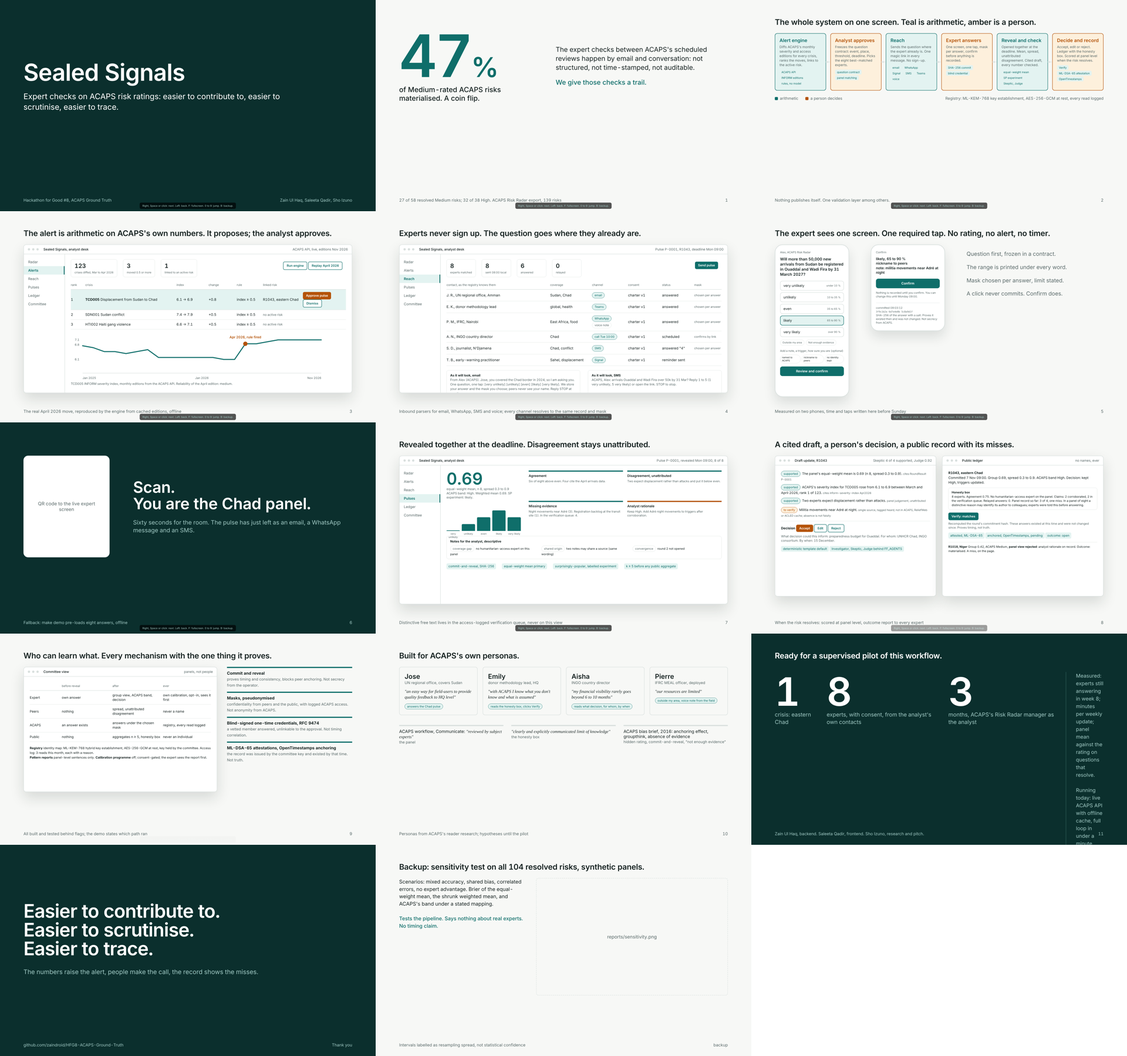
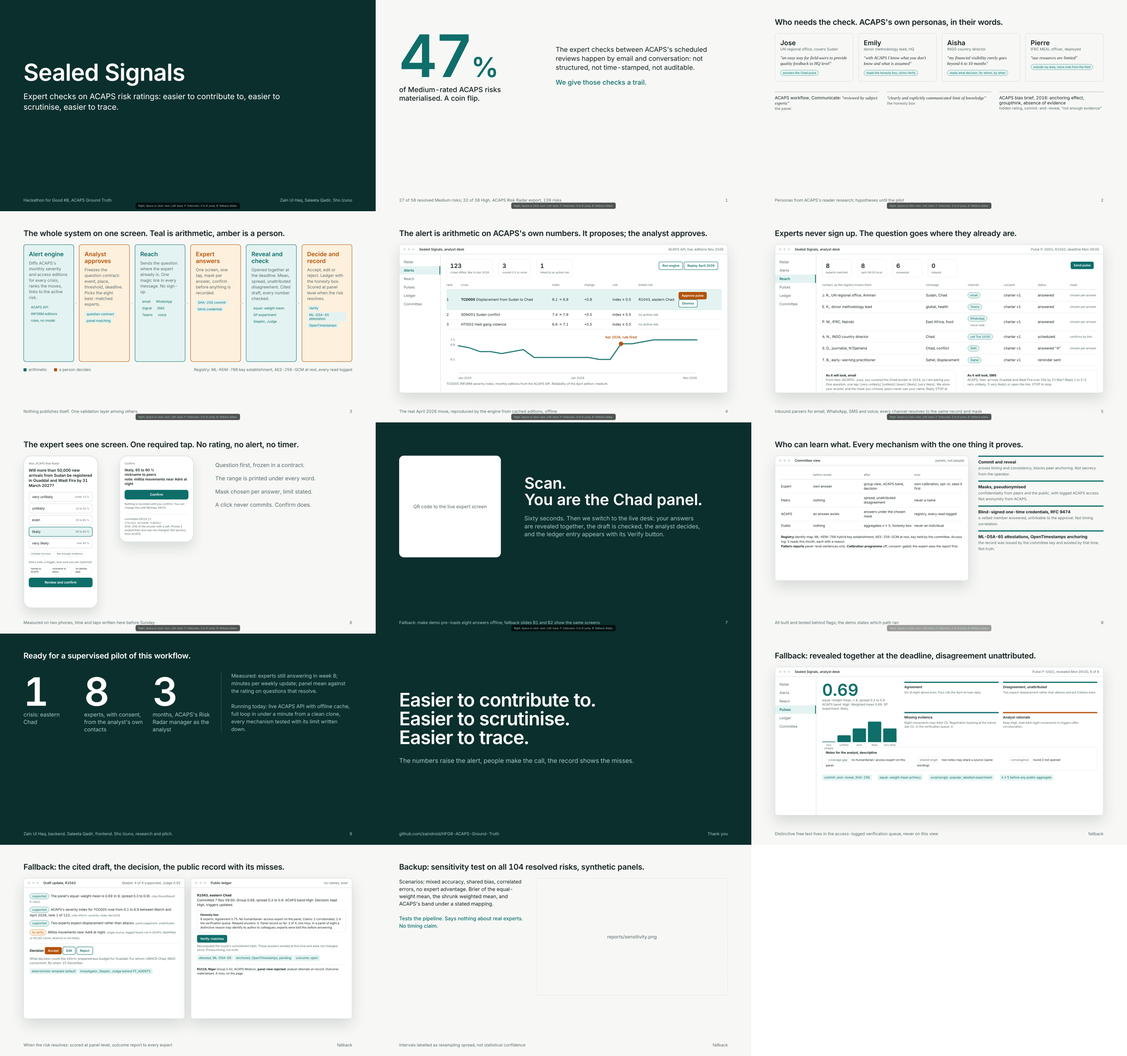
Pitch deck v5: story order (gap, personas, system, alerts, reach, card, live demo, trust, pilot); reveal and ledger screens become fallbacks; section 9a updated

diff --git a/pitch/sealed-signals-slides.html b/pitch/sealed-signals-slides.html
@@ -90,8 +90,6 @@ h1{font-size:120px;font-weight:600;line-height:1;letter-spacing:-2px}
  </div>
  <div class="foot"><span>Hackathon for Good #8, ACAPS Ground Truth</span><span>Zain Ul Haq, Saleeta Qadir, Sho Izuno</span></div>
 </section>
-
-<!-- 1 gap -->
 <section class="slide" id="s1">
  <div style="display:flex;gap:100px;align-items:center;margin-top:60px">
   <div><div class="big" data-s="0">47<span style="font-size:140px;letter-spacing:0">%</span></div><p data-s="0" style="font-size:36px;font-weight:500;margin-top:16px;max-width:700px">of Medium-rated ACAPS risks materialised. A coin flip.</p></div>
@@ -102,9 +100,22 @@ h1{font-size:120px;font-weight:600;line-height:1;letter-spacing:-2px}
  </div>
  <div class="foot"><span>27 of 58 resolved Medium risks; 32 of 38 High. ACAPS Risk Radar export, 139 risks</span><span>1</span></div>
 </section>
-
-<!-- 2 architecture -->
 <section class="slide" id="s2">
+ <div class="line" data-s="0">Who needs the check. ACAPS's own personas, in their words.</div>
+ <div style="display:grid;grid-template-columns:repeat(4,1fr);gap:26px;margin-top:10px">
+  <div data-s="1" style="border:2px solid var(--line);border-radius:12px;padding:40px 36px;min-height:520px"><div style="font-size:46px;font-weight:600">Jose</div><div class="sub" style="font-size:24px;margin-bottom:28px">UN regional office, covers Sudan</div><p style="font-family:var(--serif);font-style:italic;font-size:30px;line-height:1.35;margin-bottom:30px">"an easy way for field-users to provide quality feedback to HQ level"</p><span class="chip t" style="font-size:20px;padding:8px 16px">answers the Chad pulse</span></div>
+  <div data-s="2" style="border:2px solid var(--line);border-radius:12px;padding:40px 36px;min-height:520px"><div style="font-size:46px;font-weight:600">Emily</div><div class="sub" style="font-size:24px;margin-bottom:28px">donor methodology lead, HQ</div><p style="font-family:var(--serif);font-style:italic;font-size:30px;line-height:1.35;margin-bottom:30px">"with ACAPS I know what you don't know and what is assumed"</p><span class="chip t" style="font-size:20px;padding:8px 16px">reads the honesty box, clicks Verify</span></div>
+  <div data-s="3" style="border:2px solid var(--line);border-radius:12px;padding:40px 36px;min-height:520px"><div style="font-size:46px;font-weight:600">Aisha</div><div class="sub" style="font-size:24px;margin-bottom:28px">INGO country director</div><p style="font-family:var(--serif);font-style:italic;font-size:30px;line-height:1.35;margin-bottom:30px">"my financial visibility rarely goes beyond 6 to 10 months"</p><span class="chip t" style="font-size:20px;padding:8px 16px">reads what decision, for whom, by when</span></div>
+  <div data-s="4" style="border:2px solid var(--line);border-radius:12px;padding:40px 36px;min-height:520px"><div style="font-size:46px;font-weight:600">Pierre</div><div class="sub" style="font-size:24px;margin-bottom:28px">IFRC MEAL officer, deployed</div><p style="font-family:var(--serif);font-style:italic;font-size:30px;line-height:1.35;margin-bottom:30px">"our resources are limited"</p><span class="chip t" style="font-size:20px;padding:8px 16px">outside my area, voice note from the field</span></div>
+ </div>
+ <div style="margin-top:50px;display:flex;gap:40px" data-s="4">
+  <div style="flex:1;border-top:6px solid var(--line);padding-top:14px;font-size:22px">ACAPS workflow, Communicate: <span style="font-family:var(--serif);font-style:italic">"reviewed by subject experts"</span><br><span class="sub" style="font-size:19px">the panel</span></div>
+  <div style="flex:1;border-top:6px solid var(--line);padding-top:14px;font-size:22px"><span style="font-family:var(--serif);font-style:italic">"clearly and explicitly communicated limit of knowledge"</span><br><span class="sub" style="font-size:19px">the honesty box</span></div>
+  <div style="flex:1;border-top:6px solid var(--line);padding-top:14px;font-size:22px">ACAPS bias brief, 2016: anchoring effect, groupthink, absence of evidence<br><span class="sub" style="font-size:19px">hidden rating, commit-and-reveal, "not enough evidence"</span></div>
+ </div>
+ <div class="foot"><span>Personas from ACAPS's reader research; hypotheses until the pilot</span><span>2</span></div>
+</section>
+<section class="slide" id="s3">
  <div class="line" data-s="0">The whole system on one screen. Teal is arithmetic, amber is a person.</div>
  <div class="arch">
   <div class="node t" data-s="1"><h3>Alert engine</h3><p>Diffs ACAPS's monthly severity and access editions for every crisis, ranks the moves, links to the active risk.</p><span class="tech">ACAPS API</span> <span class="tech">INFORM editions</span> <span class="tech">rules, no model</span><i class="arrow"></i></div>
@@ -115,11 +126,9 @@ h1{font-size:120px;font-weight:600;line-height:1;letter-spacing:-2px}
   <div class="node a" data-s="6"><h3>Decide and record</h3><p>Accept, edit or reject. Ledger with the honesty box. Scored at panel level when the risk resolves.</p><span class="tech">Verify</span> <span class="tech">ML-DSA-65 attestation</span> <span class="tech">OpenTimestamps</span></div>
  </div>
  <div class="legend" data-s="6"><span class="lt">arithmetic</span><span class="la">a person decides</span><span style="margin-left:auto">Registry: ML-KEM-768 key establishment, AES-256-GCM at rest, every read logged</span></div>
- <div class="foot"><span>Nothing publishes itself. One validation layer among others.</span><span>2</span></div>
+ <div class="foot"><span>Nothing publishes itself. One validation layer among others.</span><span>3</span></div>
 </section>
-
-<!-- 3 alerts screen -->
-<section class="slide" id="s3">
+<section class="slide" id="s4">
  <div class="line" data-s="0">The alert is arithmetic on ACAPS's own numbers. It proposes; the analyst approves.</div>
  <div class="win" data-s="1" style="height:760px">
   <div class="bar"><i></i><i></i><i></i><b>Sealed Signals, analyst desk</b><span style="margin-left:auto">ACAPS API, live, editions Nov 2026</span></div>
@@ -142,11 +151,9 @@ h1{font-size:120px;font-weight:600;line-height:1;letter-spacing:-2px}
    </div>
   </div>
  </div>
- <div class="foot"><span>The real April 2026 move, reproduced by the engine from cached editions, offline</span><span>3</span></div>
+ <div class="foot"><span>The real April 2026 move, reproduced by the engine from cached editions, offline</span><span>4</span></div>
 </section>
-
-<!-- 4 reach screen -->
-<section class="slide" id="s4">
+<section class="slide" id="s5">
  <div class="line" data-s="0">Experts never sign up. The question goes where they already are.</div>
  <div class="win" data-s="1" style="height:760px">
   <div class="bar"><i></i><i></i><i></i><b>Sealed Signals, analyst desk</b><span style="margin-left:auto">Pulse P-0001, R1043, deadline Mon 09:00</span></div>
@@ -168,11 +175,9 @@ h1{font-size:120px;font-weight:600;line-height:1;letter-spacing:-2px}
    </div>
   </div>
  </div>
- <div class="foot"><span>Inbound parsers for email, WhatsApp, SMS and voice; every channel resolves to the same record and mask</span><span>4</span></div>
+ <div class="foot"><span>Inbound parsers for email, WhatsApp, SMS and voice; every channel resolves to the same record and mask</span><span>5</span></div>
 </section>
-
-<!-- 5 card -->
-<section class="slide" id="s5">
+<section class="slide" id="s6">
  <div class="line" data-s="0">The expert sees one screen. One required tap. No rating, no alert, no timer.</div>
  <div style="display:flex;gap:110px;align-items:flex-start">
   <div class="phone" data-s="1">
@@ -202,22 +207,55 @@ h1{font-size:120px;font-weight:600;line-height:1;letter-spacing:-2px}
    <p class="sub" data-s="3" style="font-size:28px">A click never commits. Confirm does.</p>
   </div>
  </div>
- <div class="foot"><span>Measured on two phones, time and taps written here before Sunday</span><span>5</span></div>
+ <div class="foot"><span>Measured on two phones, time and taps written here before Sunday</span><span>6</span></div>
 </section>
-
-<!-- 6 demo -->
-<section class="slide dark" id="s6">
+<section class="slide dark" id="s7">
  <div style="display:flex;align-items:center;gap:120px;margin-top:80px">
   <div data-s="0" style="width:520px;height:520px;background:#fff;border-radius:24px;display:flex;align-items:center;justify-content:center;text-align:center;padding:50px;color:var(--muted);font-size:24px">QR code to the live expert screen</div>
-  <div><div class="line" data-s="0" style="font-size:80px;color:#fff;line-height:1.05">Scan.<br>You are the Chad panel.</div><p class="sub" data-s="1" style="font-size:30px">Sixty seconds for the room. The pulse has just left as an email, a WhatsApp message and an SMS.</p></div>
+  <div><div class="line" data-s="0" style="font-size:80px;color:#fff;line-height:1.05">Scan.<br>You are the Chad panel.</div><p class="sub" data-s="1" style="font-size:30px;max-width:900px">Sixty seconds. Then we switch to the live desk: your answers are revealed together, the draft is checked, the analyst decides, and the ledger entry appears with its Verify button.</p></div>
  </div>
- <div class="foot"><span>Fallback: make demo pre-loads eight answers, offline</span><span>6</span></div>
+ <div class="foot"><span>Fallback: make demo pre-loads eight answers offline; fallback slides B1 and B2 show the same screens</span><span>7</span></div>
 </section>
-<section class="slide dark" id="s6v" style="padding:0"><video id="demovid" src="sealed-signals-demo.mp4" muted playsinline preload="auto" style="position:absolute;left:0;top:0;width:1920px;height:1080px;background:#fff"></video></section>
-
-<!-- 7 reveal screen -->
-<section class="slide" id="s7">
- <div class="line" data-s="0">Revealed together at the deadline. Disagreement stays unattributed.</div>
+<section class="slide dark" id="s7v" style="padding:0"><video id="demovid" src="sealed-signals-demo.mp4" muted playsinline preload="auto" style="position:absolute;left:0;top:0;width:1920px;height:1080px;background:#fff"></video></section>
+<section class="slide" id="s8">
+ <div class="line" data-s="0">Who can learn what. Every mechanism with the one thing it proves.</div>
+ <div style="display:flex;gap:50px">
+  <div class="win" data-s="1" style="flex:1;height:640px">
+   <div class="bar"><i></i><i></i><i></i><b>Committee view</b><span style="margin-left:auto">panels, not people</span></div>
+   <div class="main" style="font-size:17px">
+    <div class="tr h" style="grid-template-columns:150px 1fr 1fr 1fr"><span></span><span>before reveal</span><span>after</span><span>ever</span></div>
+    <div class="tr" style="grid-template-columns:150px 1fr 1fr 1fr"><span>Expert</span><span>own answer</span><span>group view, ACAPS band, decision</span><span>own calibration, opt-in, sees it first</span></div>
+    <div class="tr" style="grid-template-columns:150px 1fr 1fr 1fr"><span>Peers</span><span>nothing</span><span>spread, unattributed disagreement</span><span>never a name</span></div>
+    <div class="tr" style="grid-template-columns:150px 1fr 1fr 1fr"><span>ACAPS</span><span>an answer exists</span><span>answers under the chosen mask</span><span>registry, every read logged</span></div>
+    <div class="tr" style="grid-template-columns:150px 1fr 1fr 1fr"><span>Public</span><span>nothing</span><span>aggregates n ≥ 5, honesty box</span><span>never an individual</span></div>
+    <div style="margin-top:20px;font-size:16px;line-height:1.5"><b>Registry</b> identity map: ML-KEM-768 hybrid key establishment, AES-256-GCM at rest, key held by the committee. Access log: 3 reads this month, each with a reason.<br><b>Pattern reports</b> panel-level sentences only. <b>Calibration programme</b> off; consent-gated; the expert sees the report first.</div>
+   </div>
+  </div>
+  <div style="width:640px;font-size:21px;line-height:1.45" data-s="2">
+   <div style="border-top:6px solid var(--teal);padding:12px 0 18px"><b>Commit and reveal</b><br><span class="sub" style="font-size:19px">proves timing and consistency, blocks peer anchoring. Not secrecy from the operator.</span></div>
+   <div style="border-top:6px solid var(--teal);padding:12px 0 18px"><b>Masks, pseudonymised</b><br><span class="sub" style="font-size:19px">confidentiality from peers and the public, with logged ACAPS access. Not anonymity from ACAPS.</span></div>
+   <div style="border-top:6px solid var(--teal);padding:12px 0 18px"><b>Blind-signed one-time credentials, RFC 9474</b><br><span class="sub" style="font-size:19px">a vetted member answered, unlinkable to the approval. Not timing correlation.</span></div>
+   <div style="border-top:6px solid var(--teal);padding:12px 0 18px"><b>ML-DSA-65 attestations, OpenTimestamps anchoring</b><br><span class="sub" style="font-size:19px">the record was issued by the committee key and existed by that time. Not truth.</span></div>
+  </div>
+ </div>
+ <div class="foot"><span>All built and tested behind flags; the demo states which path ran</span><span>8</span></div>
+</section>
+<section class="slide dark" id="s9">
+ <div class="line" data-s="0" style="color:#fff">Ready for a supervised pilot of this workflow.</div>
+ <div style="display:flex;gap:50px;margin-top:60px">
+  <div data-s="1" style="width:260px"><div style="font-size:200px;font-weight:600;line-height:1;letter-spacing:-6px">1</div><p class="sub" style="font-size:28px">crisis: eastern Chad</p></div>
+  <div data-s="2" style="width:300px"><div style="font-size:200px;font-weight:600;line-height:1;letter-spacing:-6px">8</div><p class="sub" style="font-size:28px">experts, with consent, from the analyst's own contacts</p></div>
+  <div data-s="3" style="width:300px"><div style="font-size:200px;font-weight:600;line-height:1;letter-spacing:-6px">3</div><p class="sub" style="font-size:28px">months, ACAPS's Risk Radar manager as the analyst</p></div>
+  <div data-s="4" style="flex:1;min-width:600px;border-left:2px solid #2d5c58;padding-left:50px;font-size:26px;line-height:1.5;color:#9fc8c3">Measured: experts still answering in week 8; minutes per weekly update; panel mean against the rating on questions that resolve.<br><br>Running today: live ACAPS API with offline cache, full loop in under a minute from a clean clone, every mechanism tested with its limit written down.</div>
+ </div>
+ <div class="foot"><span>Zain Ul Haq, backend. Saleeta Qadir, frontend. Sho Izuno, research and pitch.</span><span>9</span></div>
+</section>
+<section class="slide dark" id="s12">
+ <div style="margin-top:200px"><h1 data-s="0" style="font-size:96px">Easier to contribute to.<br>Easier to scrutinise.<br>Easier to trace.</h1><p class="sub" data-s="1" style="font-size:32px;margin-top:50px">The numbers raise the alert, people make the call, the record shows the misses.</p></div>
+ <div class="foot"><span>github.com/zaindroid/HFG8-ACAPS-Ground-Truth</span><span>Thank you</span></div>
+</section>
+<section class="slide" id="b1">
+ <div class="line" data-s="0">Fallback: revealed together at the deadline, disagreement unattributed.</div>
  <div class="win" data-s="1" style="height:760px">
   <div class="bar"><i></i><i></i><i></i><b>Sealed Signals, analyst desk</b><span style="margin-left:auto">Pulse P-0001, revealed Mon 09:00, 8 of 8</span></div>
   <div class="body">
@@ -239,12 +277,10 @@ h1{font-size:120px;font-weight:600;line-height:1;letter-spacing:-2px}
    </div>
   </div>
  </div>
- <div class="foot"><span>Distinctive free text lives in the access-logged verification queue, never on this view</span><span>7</span></div>
+ <div class="foot"><span>Distinctive free text lives in the access-logged verification queue, never on this view</span><span>fallback</span></div>
 </section>
-
-<!-- 8 draft + ledger -->
-<section class="slide" id="s8">
- <div class="line" data-s="0">A cited draft, a person's decision, a public record with its misses.</div>
+<section class="slide" id="b2">
+ <div class="line" data-s="0">Fallback: the cited draft, the decision, the public record with its misses.</div>
  <div style="display:flex;gap:30px">
   <div class="win" data-s="1" style="height:720px;flex:1">
    <div class="bar"><i></i><i></i><i></i><b>Draft update, R1043</b><span style="margin-left:auto">Skeptic 4 of 4 supported, Judge 0.92</span></div>
@@ -272,81 +308,18 @@ h1{font-size:120px;font-weight:600;line-height:1;letter-spacing:-2px}
    </div>
   </div>
  </div>
- <div class="foot"><span>When the risk resolves: scored at panel level, outcome report to every expert</span><span>8</span></div>
+ <div class="foot"><span>When the risk resolves: scored at panel level, outcome report to every expert</span><span>fallback</span></div>
 </section>
-
-<!-- 9 trust -->
-<section class="slide" id="s9">
- <div class="line" data-s="0">Who can learn what. Every mechanism with the one thing it proves.</div>
- <div style="display:flex;gap:50px">
-  <div class="win" data-s="1" style="flex:1;height:640px">
-   <div class="bar"><i></i><i></i><i></i><b>Committee view</b><span style="margin-left:auto">panels, not people</span></div>
-   <div class="main" style="font-size:17px">
-    <div class="tr h" style="grid-template-columns:150px 1fr 1fr 1fr"><span></span><span>before reveal</span><span>after</span><span>ever</span></div>
-    <div class="tr" style="grid-template-columns:150px 1fr 1fr 1fr"><span>Expert</span><span>own answer</span><span>group view, ACAPS band, decision</span><span>own calibration, opt-in, sees it first</span></div>
-    <div class="tr" style="grid-template-columns:150px 1fr 1fr 1fr"><span>Peers</span><span>nothing</span><span>spread, unattributed disagreement</span><span>never a name</span></div>
-    <div class="tr" style="grid-template-columns:150px 1fr 1fr 1fr"><span>ACAPS</span><span>an answer exists</span><span>answers under the chosen mask</span><span>registry, every read logged</span></div>
-    <div class="tr" style="grid-template-columns:150px 1fr 1fr 1fr"><span>Public</span><span>nothing</span><span>aggregates n ≥ 5, honesty box</span><span>never an individual</span></div>
-    <div style="margin-top:20px;font-size:16px;line-height:1.5"><b>Registry</b> identity map: ML-KEM-768 hybrid key establishment, AES-256-GCM at rest, key held by the committee. Access log: 3 reads this month, each with a reason.<br><b>Pattern reports</b> panel-level sentences only. <b>Calibration programme</b> off; consent-gated; the expert sees the report first.</div>
-   </div>
-  </div>
-  <div style="width:640px;font-size:21px;line-height:1.45" data-s="2">
-   <div style="border-top:6px solid var(--teal);padding:12px 0 18px"><b>Commit and reveal</b><br><span class="sub" style="font-size:19px">proves timing and consistency, blocks peer anchoring. Not secrecy from the operator.</span></div>
-   <div style="border-top:6px solid var(--teal);padding:12px 0 18px"><b>Masks, pseudonymised</b><br><span class="sub" style="font-size:19px">confidentiality from peers and the public, with logged ACAPS access. Not anonymity from ACAPS.</span></div>
-   <div style="border-top:6px solid var(--teal);padding:12px 0 18px"><b>Blind-signed one-time credentials, RFC 9474</b><br><span class="sub" style="font-size:19px">a vetted member answered, unlinkable to the approval. Not timing correlation.</span></div>
-   <div style="border-top:6px solid var(--teal);padding:12px 0 18px"><b>ML-DSA-65 attestations, OpenTimestamps anchoring</b><br><span class="sub" style="font-size:19px">the record was issued by the committee key and existed by that time. Not truth.</span></div>
-  </div>
- </div>
- <div class="foot"><span>All built and tested behind flags; the demo states which path ran</span><span>9</span></div>
-</section>
-
-<!-- 10 personas -->
-<section class="slide" id="s10">
- <div class="line" data-s="0">Built for ACAPS's own personas.</div>
- <div style="display:grid;grid-template-columns:repeat(4,1fr);gap:26px;margin-top:10px">
-  <div data-s="1" style="border:2px solid var(--line);border-radius:12px;padding:26px"><div style="font-size:34px;font-weight:600">Jose</div><div class="sub" style="font-size:19px;margin-bottom:16px">UN regional office, covers Sudan</div><p style="font-family:var(--serif);font-style:italic;font-size:22px;line-height:1.35;margin-bottom:16px">"an easy way for field-users to provide quality feedback to HQ level"</p><span class="chip t">answers the Chad pulse</span></div>
-  <div data-s="2" style="border:2px solid var(--line);border-radius:12px;padding:26px"><div style="font-size:34px;font-weight:600">Emily</div><div class="sub" style="font-size:19px;margin-bottom:16px">donor methodology lead, HQ</div><p style="font-family:var(--serif);font-style:italic;font-size:22px;line-height:1.35;margin-bottom:16px">"with ACAPS I know what you don't know and what is assumed"</p><span class="chip t">reads the honesty box, clicks Verify</span></div>
-  <div data-s="3" style="border:2px solid var(--line);border-radius:12px;padding:26px"><div style="font-size:34px;font-weight:600">Aisha</div><div class="sub" style="font-size:19px;margin-bottom:16px">INGO country director</div><p style="font-family:var(--serif);font-style:italic;font-size:22px;line-height:1.35;margin-bottom:16px">"my financial visibility rarely goes beyond 6 to 10 months"</p><span class="chip t">reads what decision, for whom, by when</span></div>
-  <div data-s="4" style="border:2px solid var(--line);border-radius:12px;padding:26px"><div style="font-size:34px;font-weight:600">Pierre</div><div class="sub" style="font-size:19px;margin-bottom:16px">IFRC MEAL officer, deployed</div><p style="font-family:var(--serif);font-style:italic;font-size:22px;line-height:1.35;margin-bottom:16px">"our resources are limited"</p><span class="chip t">outside my area, voice note from the field</span></div>
- </div>
- <div style="margin-top:50px;display:flex;gap:40px" data-s="4">
-  <div style="flex:1;border-top:6px solid var(--line);padding-top:14px;font-size:22px">ACAPS workflow, Communicate: <span style="font-family:var(--serif);font-style:italic">"reviewed by subject experts"</span><br><span class="sub" style="font-size:19px">the panel</span></div>
-  <div style="flex:1;border-top:6px solid var(--line);padding-top:14px;font-size:22px"><span style="font-family:var(--serif);font-style:italic">"clearly and explicitly communicated limit of knowledge"</span><br><span class="sub" style="font-size:19px">the honesty box</span></div>
-  <div style="flex:1;border-top:6px solid var(--line);padding-top:14px;font-size:22px">ACAPS bias brief, 2016: anchoring effect, groupthink, absence of evidence<br><span class="sub" style="font-size:19px">hidden rating, commit-and-reveal, "not enough evidence"</span></div>
- </div>
- <div class="foot"><span>Personas from ACAPS's reader research; hypotheses until the pilot</span><span>10</span></div>
-</section>
-
-<!-- 11 pilot -->
-<section class="slide dark" id="s11">
- <div class="line" data-s="0" style="color:#fff">Ready for a supervised pilot of this workflow.</div>
- <div style="display:flex;gap:50px;margin-top:60px">
-  <div data-s="1" style="width:260px"><div style="font-size:200px;font-weight:600;line-height:1;letter-spacing:-6px">1</div><p class="sub" style="font-size:28px">crisis: eastern Chad</p></div>
-  <div data-s="2" style="width:300px"><div style="font-size:200px;font-weight:600;line-height:1;letter-spacing:-6px">8</div><p class="sub" style="font-size:28px">experts, with consent, from the analyst's own contacts</p></div>
-  <div data-s="3" style="width:300px"><div style="font-size:200px;font-weight:600;line-height:1;letter-spacing:-6px">3</div><p class="sub" style="font-size:28px">months, ACAPS's Risk Radar manager as the analyst</p></div>
-  <div data-s="4" style="flex:1;min-width:600px;border-left:2px solid #2d5c58;padding-left:50px;font-size:26px;line-height:1.5;color:#9fc8c3">Measured: experts still answering in week 8; minutes per weekly update; panel mean against the rating on questions that resolve.<br><br>Running today: live ACAPS API with offline cache, full loop in under a minute from a clean clone, every mechanism tested with its limit written down.</div>
- </div>
- <div class="foot"><span>Zain Ul Haq, backend. Saleeta Qadir, frontend. Sho Izuno, research and pitch.</span><span>11</span></div>
-</section>
-
-<!-- 12 close -->
-<section class="slide dark" id="s12">
- <div style="margin-top:200px"><h1 data-s="0" style="font-size:96px">Easier to contribute to.<br>Easier to scrutinise.<br>Easier to trace.</h1><p class="sub" data-s="1" style="font-size:32px;margin-top:50px">The numbers raise the alert, people make the call, the record shows the misses.</p></div>
- <div class="foot"><span>github.com/zaindroid/HFG8-ACAPS-Ground-Truth</span><span>Thank you</span></div>
-</section>
-
-<!-- backup -->
-<section class="slide" id="b1">
+<section class="slide" id="b3">
  <div class="line" data-s="0">Backup: sensitivity test on all 104 resolved risks, synthetic panels.</div>
  <div style="display:flex;gap:60px;align-items:flex-start">
   <div style="width:640px;font-size:26px;line-height:1.45" data-s="1">Scenarios: mixed accuracy, shared bias, correlated errors, no expert advantage. Brier of the equal-weight mean, the shrunk weighted mean, and ACAPS's band under a stated mapping.<br><br><span style="color:var(--teal);font-weight:500">Tests the pipeline. Says nothing about real experts. No timing claim.</span></div>
   <div data-s="1" style="flex:1;height:600px;border:2px dashed var(--line);border-radius:12px;display:flex;align-items:center;justify-content:center;color:var(--muted);font-size:24px">reports/sensitivity.png</div>
  </div>
- <div class="foot"><span>Intervals labelled as resampling spread, not statistical confidence</span><span>backup</span></div>
+ <div class="foot"><span>Intervals labelled as resampling spread, not statistical confidence</span><span>fallback</span></div>
 </section>
-
 </div>
-<div class="hud" id="hud">Right, Space or click: next. Left: back. F: fullscreen. 0 to 9: jump. B: backup.</div>
+<div class="hud" id="hud">Right, Space or click: next. Left: back. F: fullscreen. 0 to 9: jump. B: fallback slides.</div>
 <script>
 (function(){
  var stage=document.getElementById('stage'),S=[].slice.call(document.querySelectorAll('.slide'));
@@ -364,7 +337,7 @@ h1{font-size:120px;font-weight:600;line-height:1;letter-spacing:-2px}
   else if(e.key==='ArrowLeft'||e.key==='PageUp'){prev()}
   else if(e.key==='f'||e.key==='F'){document.fullscreenElement?document.exitFullscreen():document.documentElement.requestFullscreen()}
   else if(/^[0-9]$/.test(e.key)){var el=document.getElementById('s'+e.key);if(el)go(S.indexOf(el),0)}
-  else if(e.key==='b'||e.key==='B'){go(S.indexOf(document.getElementById('b1')),0)}});
+  else if(e.key==='b'||e.key==='B'){go(S.indexOf(document.getElementById('b1')),0)}else if(e.key==='Escape'){go(S.indexOf(document.getElementById('s7')),0)}});
  addEventListener('click',next);
  setTimeout(function(){document.getElementById('hud').style.opacity=0},6000);
  go(0,0);

diff --git a/docs/sealed-signals/MASTER_PROMPT.md b/docs/sealed-signals/MASTER_PROMPT.md
@@ -707,17 +707,16 @@ Professional, minimal, modern. The jury should think "this already exists in pro
 - README: paragraph from section 0, architecture diagram, run instructions, what is synthetic vs live, limits, team.
 - Pitch rehearsed twice with the QR step (jury becomes the panel); fallback `make demo` pre-loads 8 synthetic answers.
 
-## 9a. The three minutes (Lane C owns demo-script.md; these beats are fixed)
+## 9a. The three minutes (Lane C owns demo-script.md; deck in pitch/sealed-signals-slides.html; these beats are fixed)
 
-0:00 the gap, in one sentence (section 0); 0:15 the alert engine diffs April 2026 live, TCD005 rank 1 of 123, the analyst
-approves the pulse; 0:40 the pulse leaves the Reach module as an email, a WhatsApp message and an SMS at once (delivery
-counts only); the jury scans the QR and answers on the one-screen card (60-second exercise timer, product has none);
-1:45 reveal at the deadline: four columns, spread, unattributed disagreement, coverage gap; 2:10 cited draft, Skeptic
-marks, analyst accepts with "what decision, for whom, by when"; 2:30 ledger entry with the honesty box; one click on
-Verify: "matches: these answers existed at this time and were not changed; it proves timing, not truth"; 2:45 the
-outcome report that every expert receives; 2:50 "easier to contribute to, easier to scrutinise, easier to trace; ready
-for a supervised pilot of this workflow". Crypto gets the Verify click and nothing else; the stack is on the repo page
-and in Q&A. Personas slide directly after the spine line.
+Slide order is the story: 1 the gap (47 %, the exact sentence) · 2 who needs the check (the four ACAPS personas) · 3 the
+whole system on one screen · 4 the Alerts page, April 2026 live · 5 the Reach page, the pulse leaving by email, WhatsApp
+and SMS · 6 the expert screen and the confirm screen · 7 scan, the jury is the Chad panel (60 s for the room), then the
+live desk: reveal at the deadline, four columns, draft with Skeptic marks, accept with "what decision, for whom, by
+when", ledger entry, one click on Verify ("matches: existed at this time, unchanged; timing, not truth") · 8 who can
+learn what, each mechanism with the one thing it proves · 9 pilot and team · close on the spine line. Fallback slides
+B1 and B2 (reveal view, draft and ledger) replace the live desk if it fails; B3 is the sensitivity test for Q&A. Crypto
+gets the Verify click and the chips on slides 3 and 8, nothing more. Nothing is said on stage about a path that is off.
 
 ## 10. Lanes
 
